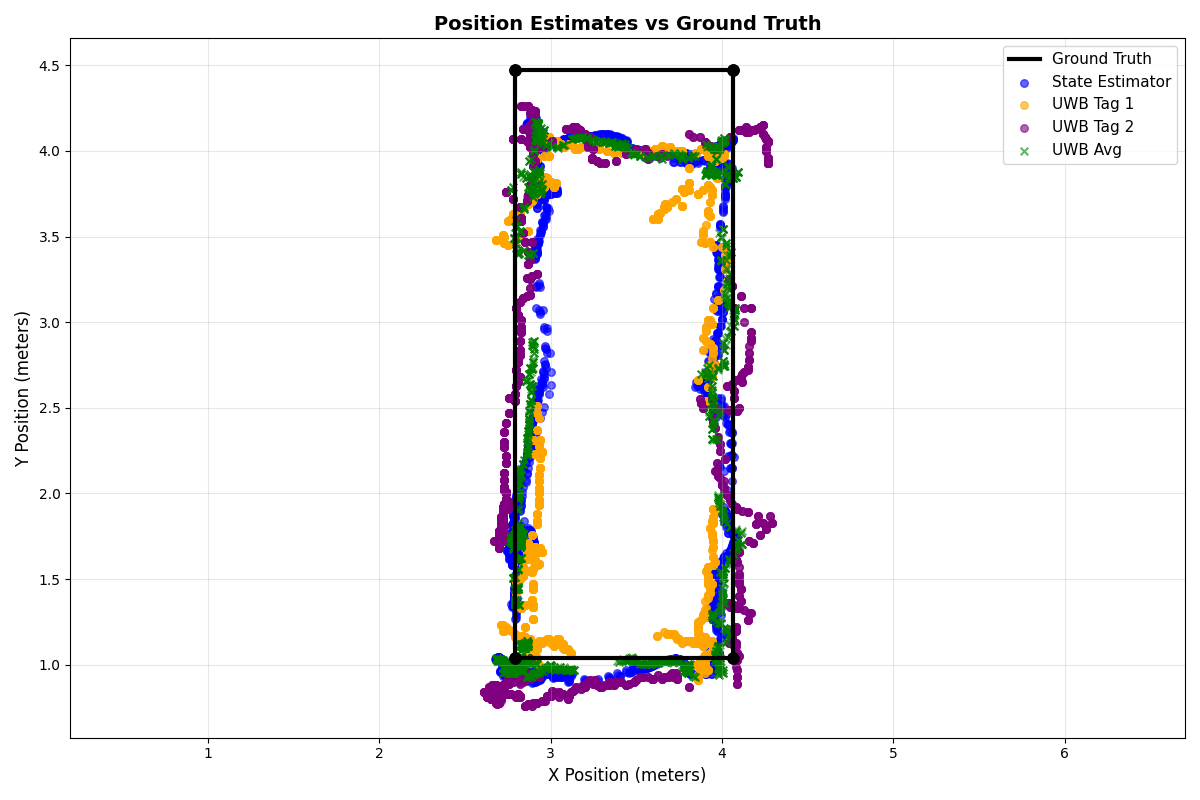
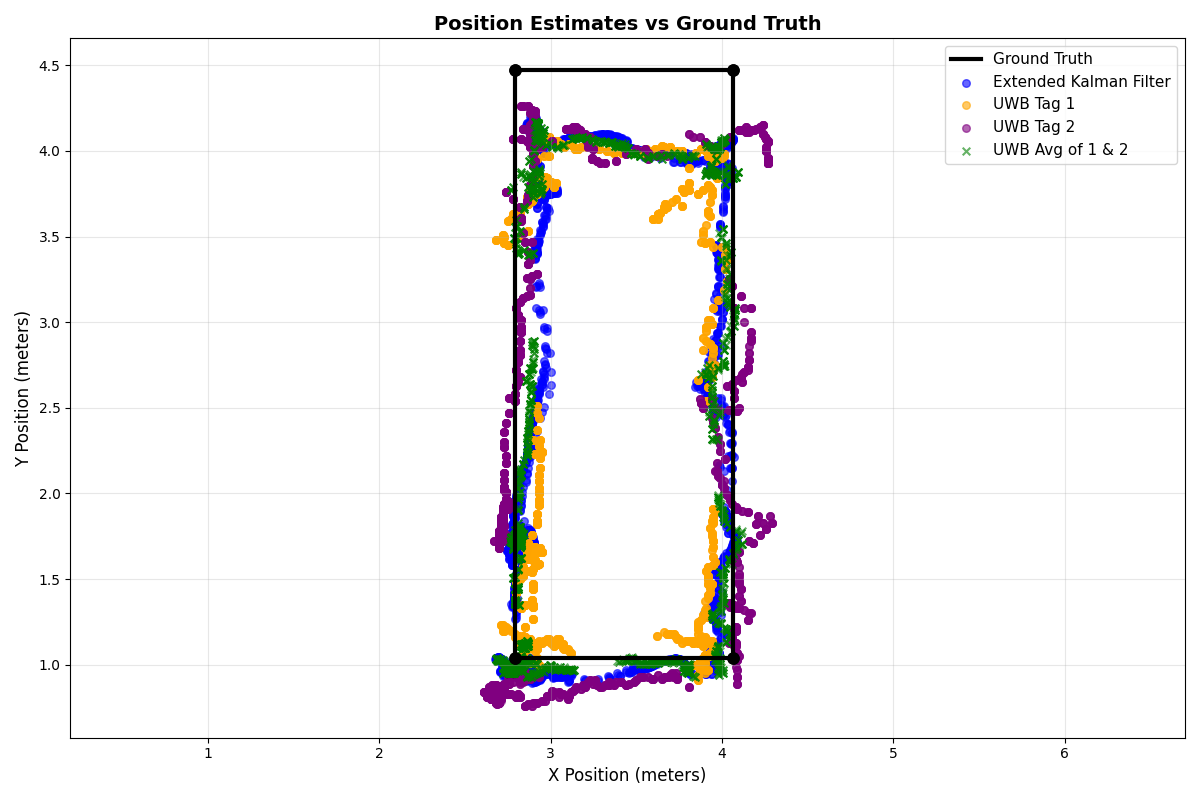
Updated with stern aproved naming scheme

Changed region(s): [[0.8017, 0.0625, 0.9867, 0.2188]]

diff --git a/ground_truth/main.py b/ground_truth/main.py
@@ -172,7 +172,7 @@ def analyze_uwb_positions(uwb_positions_df, ground_truth):
     return None, None, tag1_positions, tag2_positions
 
 def compare_systems(state_distances, uwb_distances):
-    """Compare state estimator and UWB system performance."""
+    """Compare Extended Kalman Filter and UWB system performance."""
     print("\n" + "="*70)
     print("SYSTEM COMPARISON")
     print("="*70)
@@ -184,20 +184,20 @@ def compare_systems(state_distances, uwb_distances):
     state_rmse = np.sqrt(np.mean(state_distances**2))
     uwb_rmse = np.sqrt(np.mean(uwb_distances**2))
     
-    print(f"\nState Estimator - Mean Error: {np.mean(state_distances):.4f} m")
-    print(f"State Estimator - RMSE: {state_rmse:.4f} m")
+    print(f"\nExtended Kalman Filter - Mean Error: {np.mean(state_distances):.4f} m")
+    print(f"Extended Kalman Filter - RMSE: {state_rmse:.4f} m")
     print(f"UWB Positions  - Mean Error: {np.mean(uwb_distances):.4f} m")
     print(f"UWB Positions  - RMSE: {uwb_rmse:.4f} m")
     print(f"Mean Error Difference: {abs(np.mean(state_distances) - np.mean(uwb_distances)):.4f} m")
     print(f"RMSE Difference: {abs(state_rmse - uwb_rmse):.4f} m")
     
     if np.mean(state_distances) < np.mean(uwb_distances):
-        print("→ State Estimator performs BETTER (by mean error)")
+        print("→ Extended Kalman Filter performs BETTER (by mean error)")
     else:
         print("→ UWB Positions performs BETTER (by mean error)")
     
     if state_rmse < uwb_rmse:
-        print("→ State Estimator performs BETTER (by RMSE)")
+        print("→ Extended Kalman Filter performs BETTER (by RMSE)")
     else:
         print("→ UWB Positions performs BETTER (by RMSE)")
 
@@ -214,7 +214,7 @@ def plot_comparison(state_distances, state_positions, uwb_distances, uwb_positio
 
     # Plot State Estimator positions
     if state_positions is not None:
-        ax.scatter(state_positions[:, 0], state_positions[:, 1], c='blue', alpha=0.6, s=30, label='State Estimator')
+        ax.scatter(state_positions[:, 0], state_positions[:, 1], c='blue', alpha=0.6, s=30, label='Extended Kalman Filter')
 
     # Plot UWB tag-specific positions
     if uwb_tag1_positions is not None and len(uwb_tag1_positions) > 0:
@@ -224,7 +224,7 @@ def plot_comparison(state_distances, state_positions, uwb_distances, uwb_positio
 
     # Plot averaged UWB positions used for analysis
     if uwb_positions is not None and len(uwb_positions) > 0:
-        ax.scatter(uwb_positions[:, 0], uwb_positions[:, 1], c='green', alpha=0.6, s=30, marker='x', label='UWB Avg')
+        ax.scatter(uwb_positions[:, 0], uwb_positions[:, 1], c='green', alpha=0.6, s=30, marker='x', label='UWB Avg of 1 & 2')
 
     ax.set_xlabel('X Position (meters)', fontsize=12)
     ax.set_ylabel('Y Position (meters)', fontsize=12)
